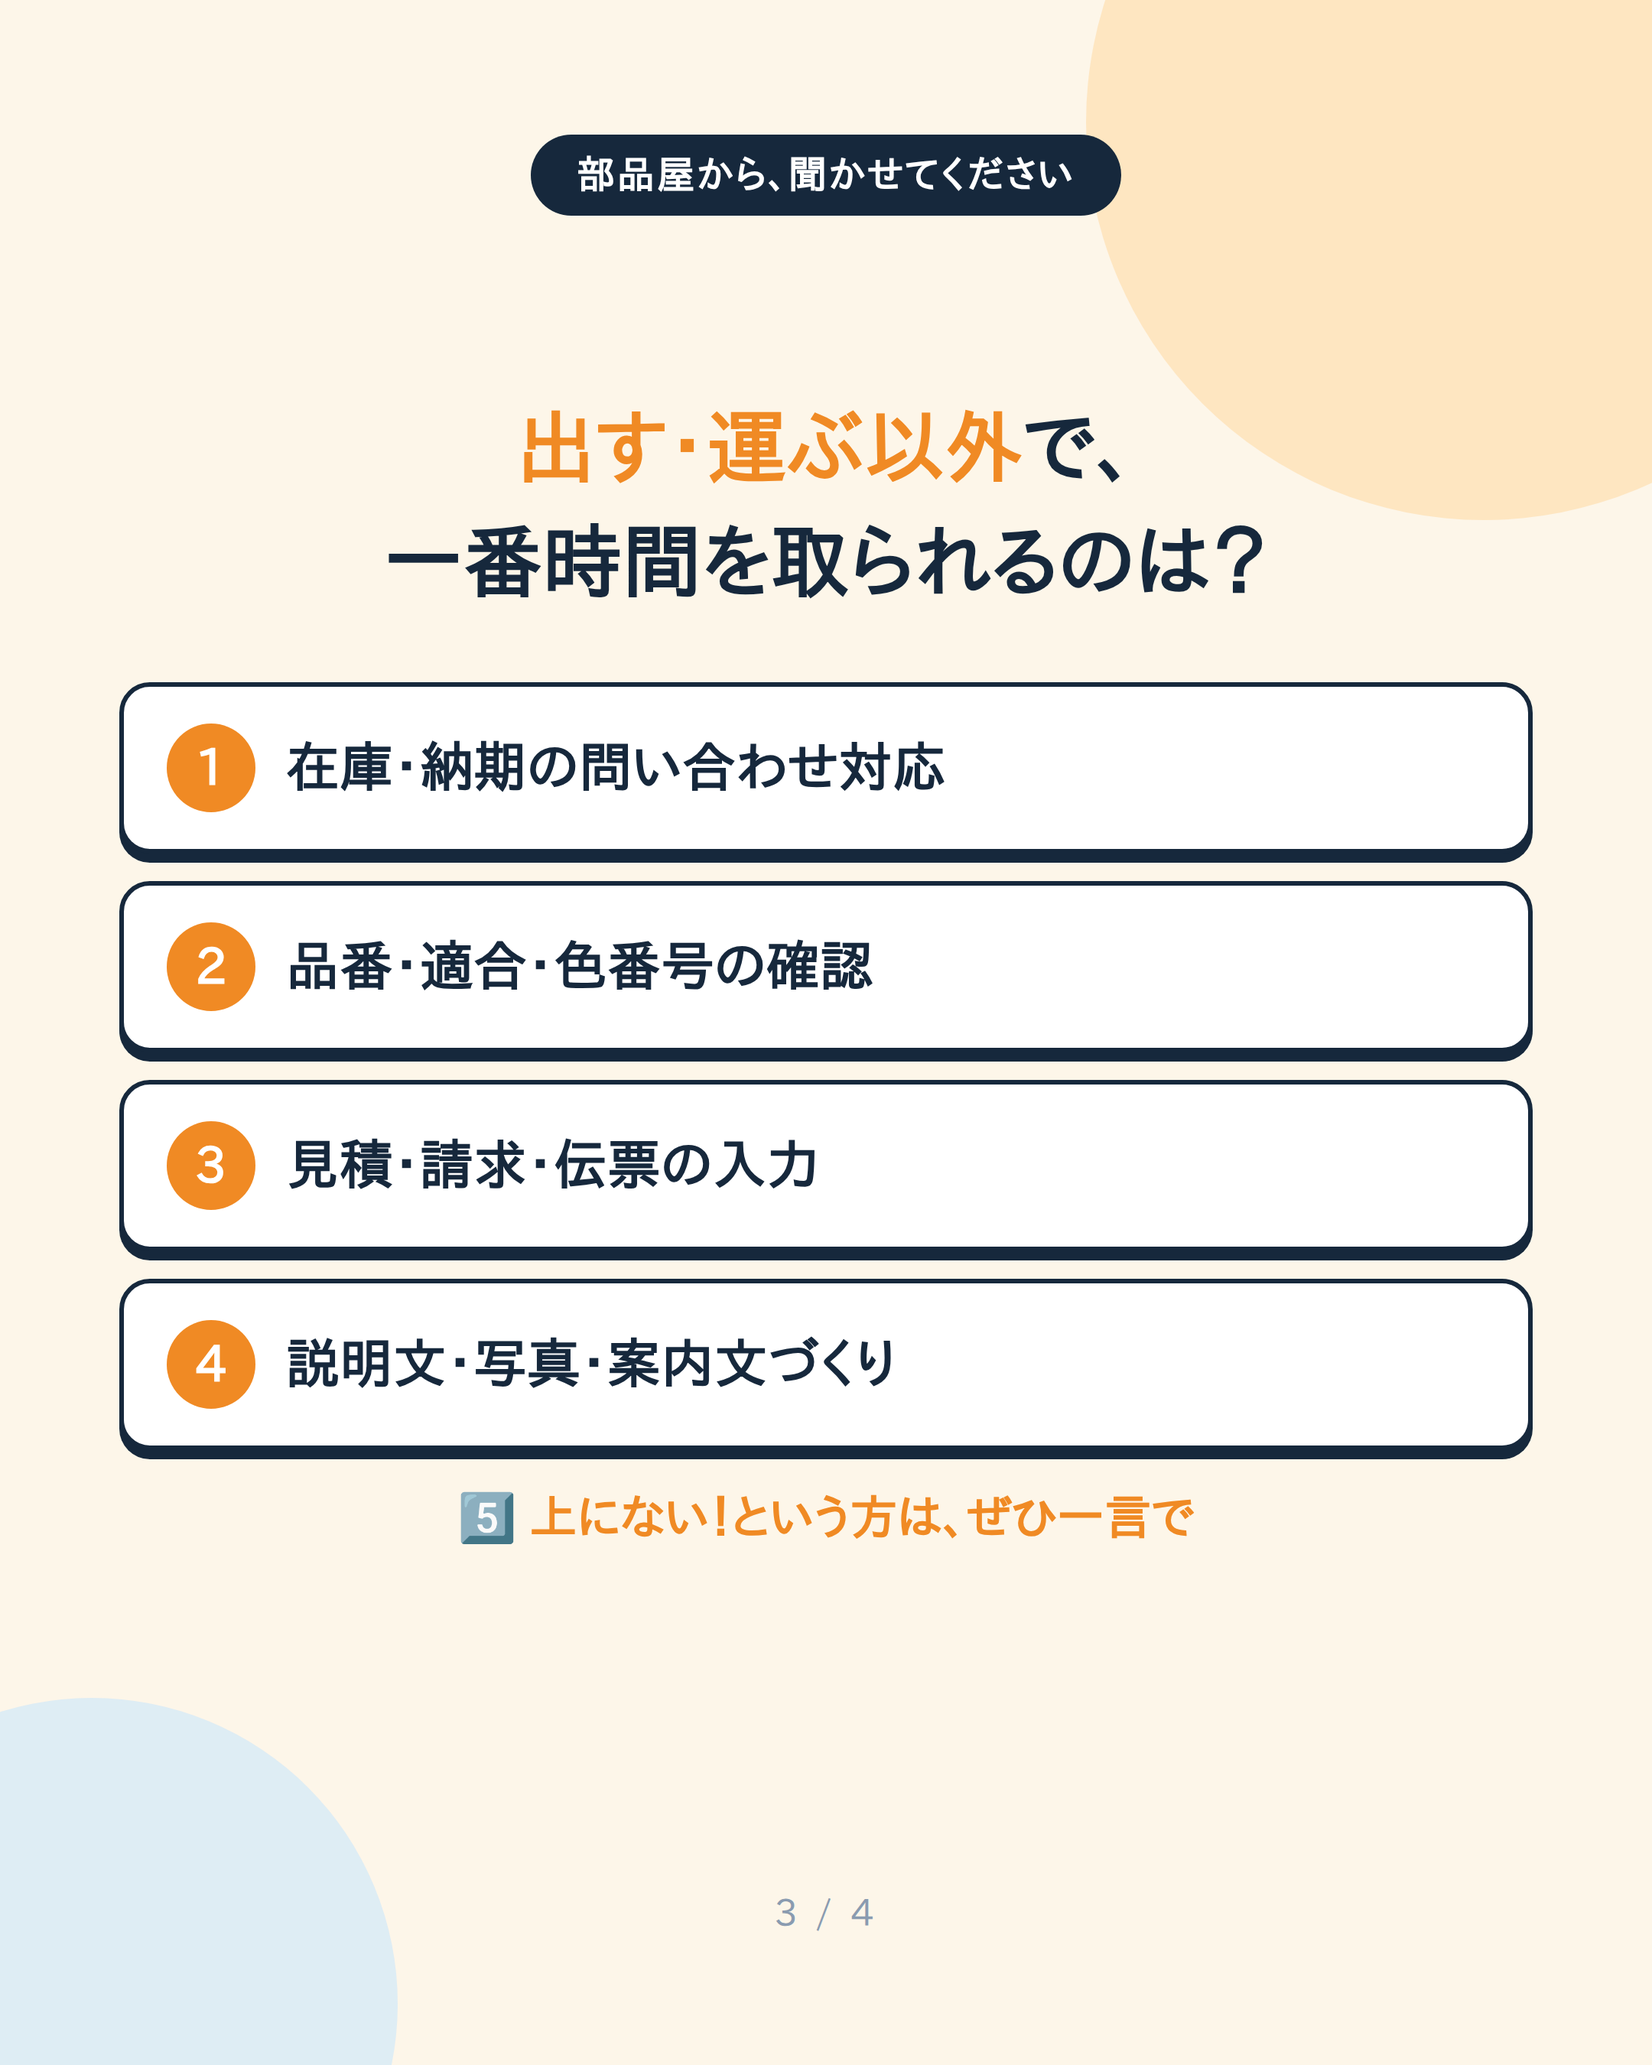
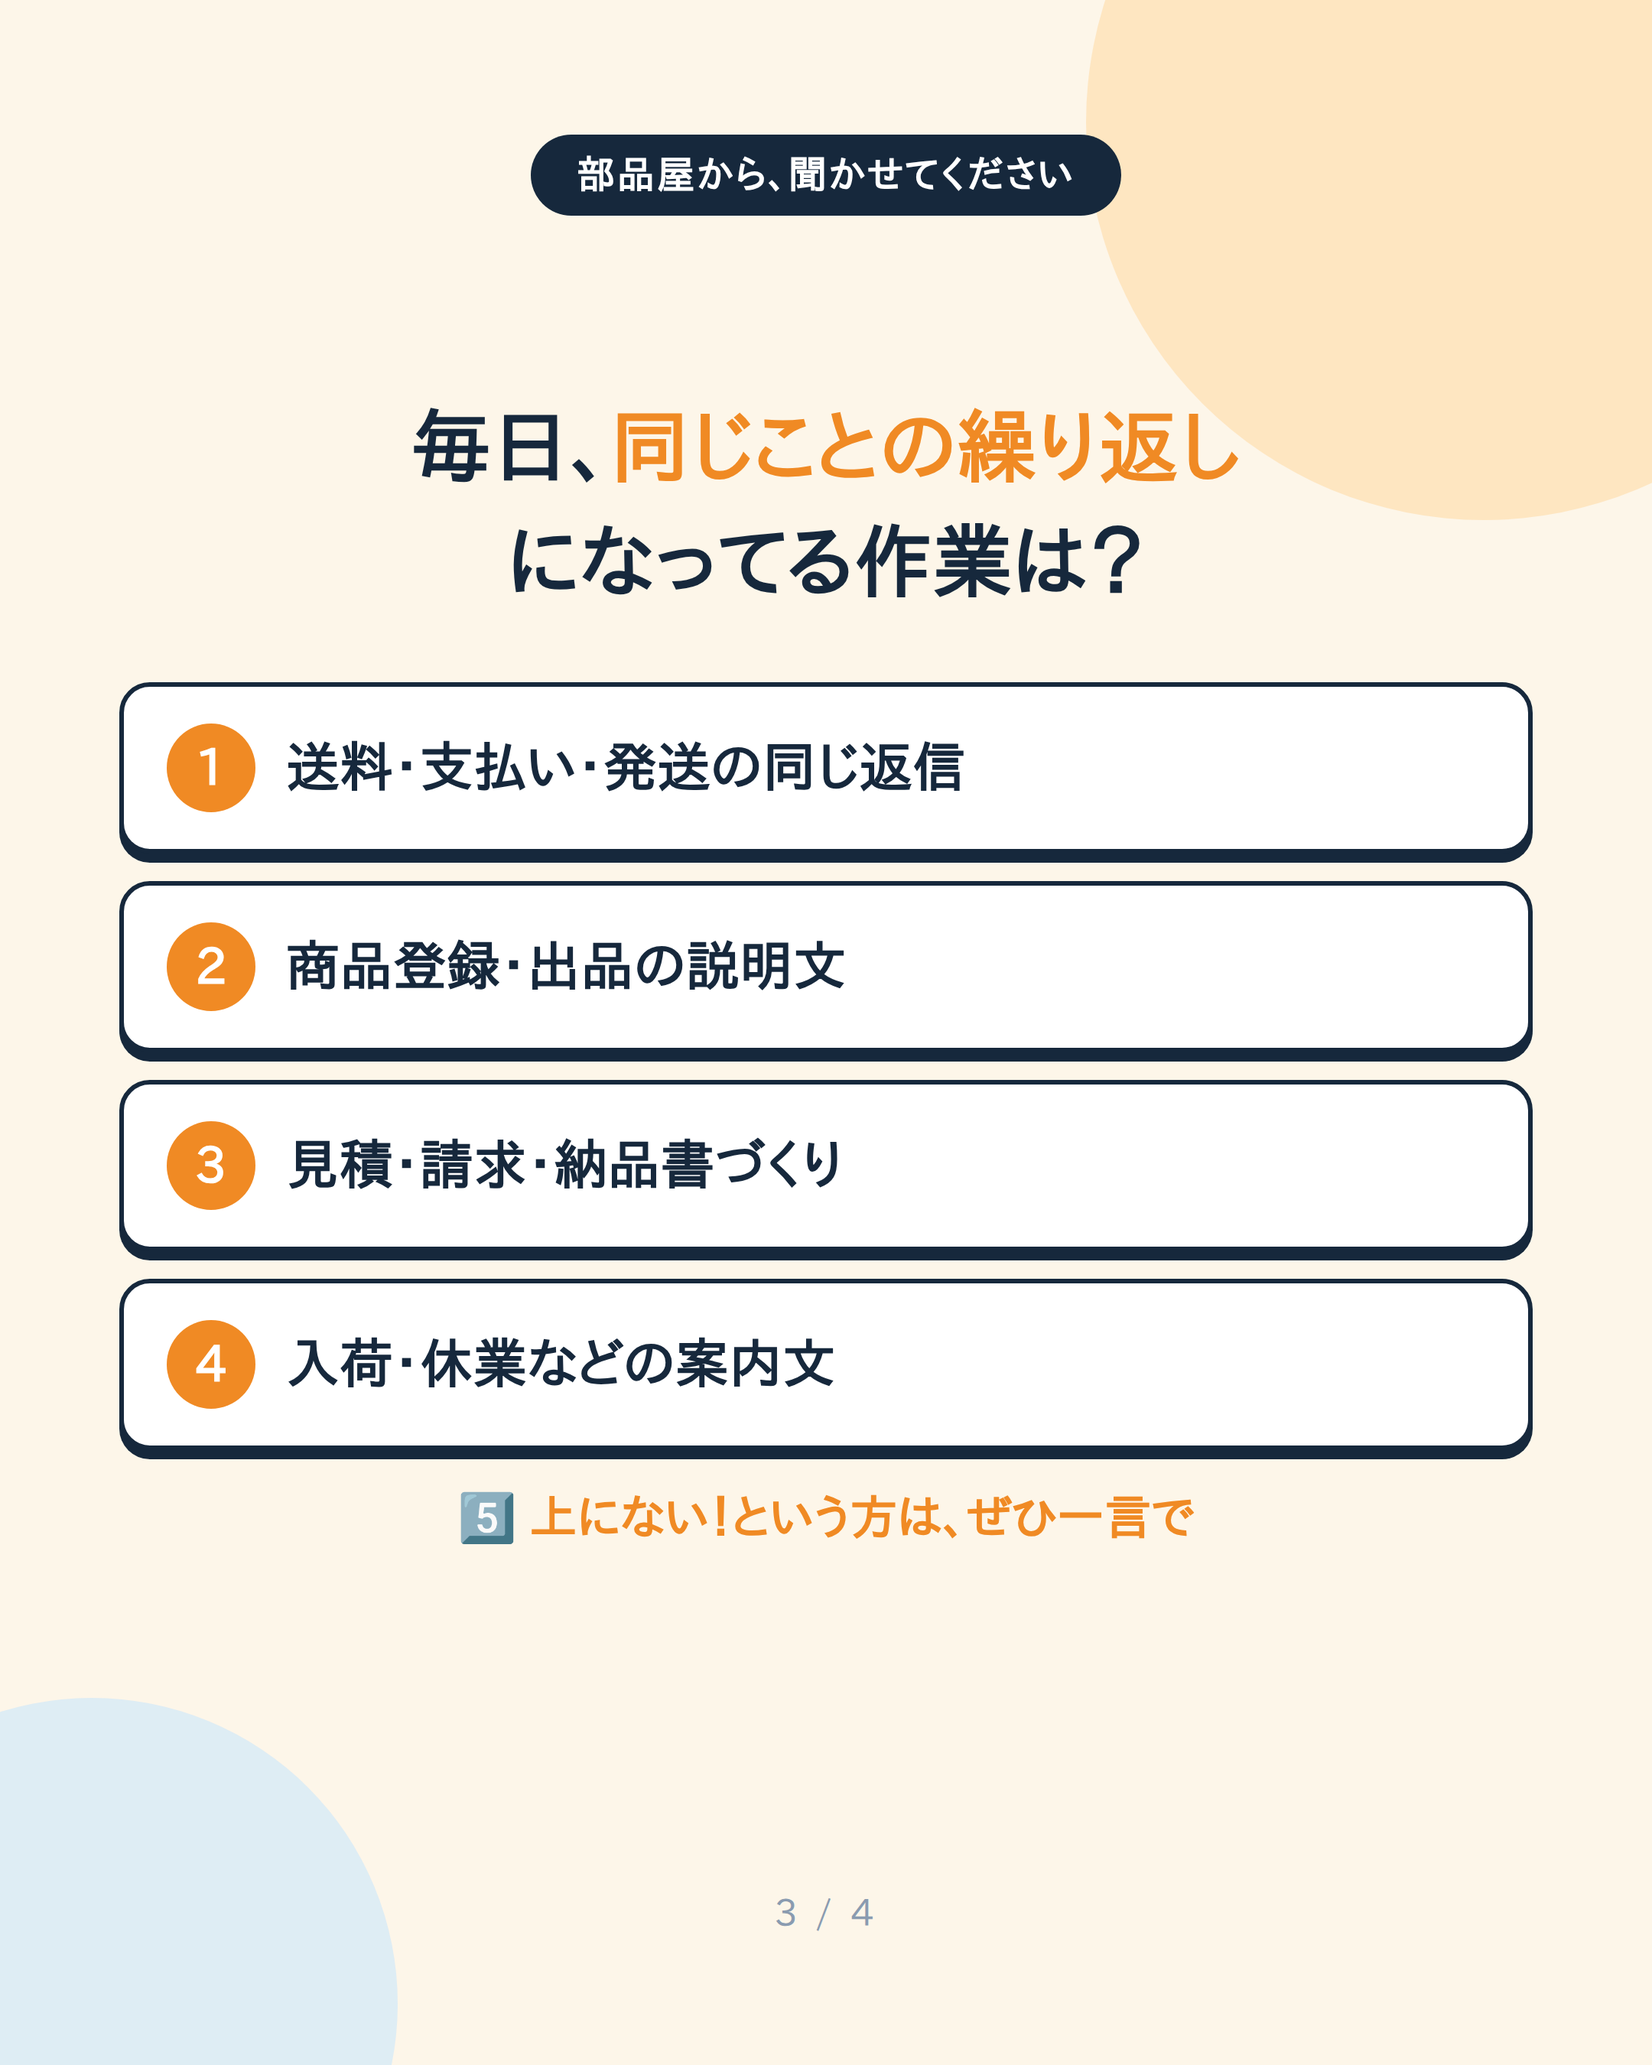
アンケート第2弾の軸を「繰り返し作業」に変更（本業を無駄扱いしていた）
オーナー指摘：「在庫あるって聞かれたのを調べて探すのが、中古/新品の
部品屋さんの仕事。ここは経験があるからAIが入ってこれない部分」

初版は在庫・納期の問い合わせ対応、品番・適合の確認を「時間を取られる
作業」として並べていた＝本業そのものを無駄扱いしていた。不採用になった
post-01（見積の説明文）と同じ構造の誤り。

線引きを明確にした：
- AIが入れない＝探す・見極める・適合を判断する（経験）
- AIが入れる＝毎回ほぼ同じ形で書く／打つ（繰り返し）

- 2枚目：先に「探して見極めるのは経験の仕事／代わりがききません」と認める
- 3枚目：軸を「毎日、同じことの繰り返しになってる作業は？」に変更
  ①送料・支払い・発送の同じ返信 ②商品登録・出品の説明文
  ③見積・請求・納品書づくり ④入荷・休業などの案内文
- 4枚目：「探す・見極めるは人の仕事」と明記
- README のキャプションと選択肢表を差し替え
- PROJECT-STATUS に線引きを記録（部品商向けテンプレで在庫検索・適合判断を
  約束しないという商品側の制約にも効く）

Claude-Session: https://claude.ai/code/session_01BDNBbdRytoB6q3uoz92Hn1

diff --git a/ai-office-kit/assets/lucent-ai-series/survey-feed-parts.html b/ai-office-kit/assets/lucent-ai-series/survey-feed-parts.html
@@ -66,31 +66,34 @@
   <div class="page">スワイプ →</div>
 </div></div>
 
-<!-- 2 立場（タツさん本人の実感＝中古部品商だから事実） -->
+<!-- 2 立場（★重要：探す・見極めるのは経験の仕事＝AIが入れない領域だと先に認める。
+     ここを「手が止まる」と書くと本業を軽く見ていることになる＝業界を分かっていない文章になる。
+     オーナー指摘・2026-08-17。「同じことの繰り返し」だけがAIの領域） -->
 <div class="slide"><div class="in">
   <div class="series">部品屋から、聞かせてください</div>
   <div class="center">
-    <div class="emoji">😮💨</div>
-    <h2>うちも、<span class="o">出す・運ぶ以外</span>で<br>手が止まります</h2>
+    <div class="emoji">🔍</div>
+    <h2>探して見極めるのは<br><span class="o">経験の仕事</span></h2>
     <div class="lead">
-      「これ在庫ある？」の対応。<br>
-      調べもの、伝票、写真、文章。<br><br>
-      <b>気づいたら夕方、みたいな日があります。</b>
+      「これある？」に答えられるのは、<br>
+      年式も形も頭に入ってるから。<br>
+      <b>ここは代わりがききません。</b><br><br>
+      <b>でも そのあと書く文章、<br>毎回ほぼ同じじゃないですか？</b>
     </div>
   </div>
   <div class="page">2 / 4</div>
 </div></div>
 
-<!-- 3 質問 -->
+<!-- 3 質問（軸＝「毎日同じことの繰り返し」。ここだけがAIで減らせる領域） -->
 <div class="slide"><div class="in">
   <div class="series">部品屋から、聞かせてください</div>
   <div class="center">
-    <h2><span class="o">出す・運ぶ以外</span>で、<br>一番時間を取られるのは？</h2>
+    <h2>毎日、<span class="o">同じことの繰り返し</span><br>になってる作業は？</h2>
     <ul>
-      <li><span class="n">1</span>在庫・納期の問い合わせ対応</li>
-      <li><span class="n">2</span>品番・適合・色番号の確認</li>
-      <li><span class="n">3</span>見積・請求・伝票の入力</li>
-      <li><span class="n">4</span>説明文・写真・案内文づくり</li>
+      <li><span class="n">1</span>送料・支払い・発送の同じ返信</li>
+      <li><span class="n">2</span>商品登録・出品の説明文</li>
+      <li><span class="n">3</span>見積・請求・納品書づくり</li>
+      <li><span class="n">4</span>入荷・休業などの案内文</li>
     </ul>
     <div class="free">5⃣ 上にない！という方は、ぜひ一言で</div>
   </div>
@@ -105,8 +108,8 @@
     <h2>番号ひとつで<br><span class="o">大丈夫です</span></h2>
     <div class="why">
       いま、うちの事務作業をAIにやらせる試しをしています。<br><br>
-      扱っているモノは違っても、<b>止まる場所は同じかもしれない</b>と思っていて、
-      そこを確かめたいです。<br><br>
+      <b>探す・見極めるところは人の仕事</b>だと思っています。
+      でも<b>「毎回同じ」なところ</b>は、まとめて減らせるかもしれない。<br><br>
       <b>売り込みではありません。</b>まず、実際のところを知りたいだけです。
     </div>
     <div class="cta"><span class="o">コメント</span>か<span class="o">DM</span>で<br>教えてもらえたら助かります。</div>

diff --git a/ai-office-kit/assets/lucent-ai-series/README.md b/ai-office-kit/assets/lucent-ai-series/README.md
@@ -109,18 +109,41 @@
 タツさん自身は**中古部品商なので実感がある**が、**新品部品商・材料屋の当事者ではない**。
 → **推測で困りごとを書かない。**（`post-01.html` が不採用になったのと同じ轍を踏まない）
 
+### 🚨【最重要】AIが入れる線・入れない線（2026-08-17・オーナー指摘で修正）
+
+初版は「在庫・納期の問い合わせ対応」「品番・適合の確認」を**時間を取られる作業**として並べていた。
+**これは間違い。** オーナー指摘：
+
+> **「在庫あるって聞かれたのを調べて探すのが、中古/新品の部品屋さんの仕事なんだよね。
+> ここは経験があるからAIが入ってこれない部分」**
+
+つまり**本業そのものを「無駄な時間」扱いしていた**＝業界を分かっていない文章になる。
+
+| | AIが入れない（人の仕事） | AIが入れる（AIの仕事） |
+|---|---|---|
+| 中身 | **探す・見極める・適合を判断する** | **毎回ほぼ同じ形で書く／打つ** |
+| 根拠 | 年式・形状・相場が頭に入っている＝**経験** | 型が決まっている＝**繰り返し** |
+
+→ **軸を「一番時間を取られるのは？」から「毎日、同じことの繰り返しになってる作業は？」に変更。**
+オーナーの言葉そのまま＝**「毎日同じ作業をしてれば、AIなら全部自動化にできる」**。
+
+**2枚目で先に「探して見極めるのは経験の仕事／ここは代わりがききません」と認める。**
+これが**「分かってる人が書いてる」に見せる一番の要素**。否定から入らない。
+
 ### なぜ3業種を1本にまとめたか
 リーチは**503人の13.5%＝実質68人前後**で、そのうち部品商は**"一部"**。
 **業種ごとに分けると1回あたり数人**になり、アンケートとして成立しない。
 → **選択肢の言葉を広く取って**1本に統合し、**⑤の自由記述で業種差を拾う**。
 
-| 選択肢 | 中古部品 | 新品部品 | 材料 |
+| 選択肢（＝繰り返し作業） | 中古部品 | 新品部品 | 材料 |
 |---|---|---|---|
-| ① 在庫・納期の問い合わせ対応 | ✓ | ✓ | ✓ |
-| ② **品番・適合・色番号**の確認 | 適合 | 品番 | **色番号（調色）** |
-| ③ 見積・請求・伝票の入力 | ✓ | ✓ | ✓ |
-| ④ 説明文・写真・案内文づくり | ◎ | ✓ | ✓ |
+| ① 送料・支払い・発送の同じ返信 | ✓ | ✓ | ✓ |
+| ② 商品登録・出品の説明文 | ◎ | ✓ | △ |
+| ③ 見積・請求・納品書づくり | ✓ | ✓ | ✓ |
+| ④ 入荷・休業などの案内文 | ✓ | ✓ | ✓ |
 | ⑤ 上にない！という方は一言で | **選択肢が外れている前提で必ず入れる** | | |
+
+> ⚠**在庫を探す・適合を調べるは選択肢に入れない。** そこは商品にもしない（できない）。
 
 ### 素材
 | ファイル | 用途 | サイズ |
@@ -141,21 +164,23 @@
 ```
 中古部品・新品部品・材料を扱っている方に、聞きたいことがあります。
 
-うちも、部品を出す・運ぶ以外のところで手が止まります。
-「これ在庫ある？」の対応、調べもの、伝票、写真、文章。
-気づいたら夕方、みたいな日があります。
+「これある？」に答えられるのは、年式も形も頭に入ってるからで、
+探して見極めるところは経験の仕事だと思っています。ここは代わりがきかない。
+
+でも、そのあとに書く文章って、毎回ほぼ同じじゃないですか。
+うちはそこが地味に積み上がってます。
 
 みなさんはどうですか？
 
-出す・運ぶ以外で、一番時間を取られるのは？
-① 在庫・納期の問い合わせ対応
-② 品番・適合・色番号の確認
-③ 見積・請求・伝票の入力
-④ 説明文・写真・案内文づくり
+毎日、同じことの繰り返しになってる作業は？
+① 送料・支払い・発送の同じ返信
+② 商品登録・出品の説明文
+③ 見積・請求・納品書づくり
+④ 入荷・休業などの案内文
 ⑤ 上にない！という方は、ぜひ一言で
 
 なぜ聞くかというと、いま うちの事務作業をAIにやらせる試しをしていて、
-扱っているモノは違っても、止まる場所は同じかもしれないと思っているからです。
+「毎回同じ」なところだけまとめて減らせないか試しているからです。
 
 売り込みではありません。まず実際のところを知りたいだけです。
 番号だけでも、コメントかDMで教えてもらえたら助かります。

diff --git a/ai-office-kit/docs/PROJECT-STATUS.md b/ai-office-kit/docs/PROJECT-STATUS.md
@@ -130,7 +130,23 @@
    - ✅**代わりにアンケート方式に変更（これが現行）**。回収した言葉は**①次の投稿ネタ ②業種テンプレの改良 ③営業トーク**に効く。
      - **第1弾＝鈑金屋・整備士向け**：`q-feed-1〜4.png`（カルーセル）＋`q-story-1〜4.png`（投票3本＋質問1本）
      - **第2弾＝流通側**（中古部品商・新品部品商・材料屋を**1本に統合**）：`q2-feed-1〜4.png`
-       ⚠分けると母数が数人になるため統合。**選択肢を広く取り**（品番／適合／**色番号**を1行に内包）**⑤自由記述で業種差を拾う**。
+       ⚠分けると母数が数人になるため統合。**⑤自由記述で業種差を拾う**。
+   - 🚨🚨**【最重要】AIが入れる線・入れない線（2026-08-17・オーナー指摘で修正）**
+     第2弾の初版は「在庫・納期の問い合わせ対応」「品番・適合の確認」を**時間を取られる作業**として並べていた。
+     > オーナー指摘：**「在庫あるって聞かれたのを調べて探すのが、中古/新品の部品屋さんの仕事なんだよね。
+     > ここは経験があるからAIが入ってこれない部分」**
+     → **本業そのものを"無駄な時間"扱いしていた。** これも「業界を分かっていない文章」になる。
+
+     | AIが入れない（人の仕事） | AIが入れる（AIの仕事） |
+     |---|---|
+     | **探す・見極める・適合を判断する**（年式/形状/相場が頭に入っている＝経験） | **毎回ほぼ同じ形で書く・打つ**（型が決まっている＝繰り返し） |
+
+     → **軸を「一番時間を取られるのは？」→「毎日、同じことの繰り返しになってる作業は？」に変更。**
+     オーナーの言葉＝**「毎日同じ作業をしてれば、AIなら全部自動化にできる」**。
+     **2枚目で先に「探して見極めるのは経験の仕事／ここは代わりがききません」と認める**のが要点。
+     ⚠**この線引きは商品側にも効く**：部品商向けテンプレを作るとき**在庫検索・適合判断を約束しない**。
+     ⚠**教訓（不採用post-01と同じ構造の2回目）**：**現場の技能を"非効率"と書くと一発で嫌われる。
+     効率化の対象は"技能"ではなく"繰り返し"。**
    - 🚨**配色を明るく作り直した**：初版は濃紺で、オーナー指摘＝**「暗すぎて答えたくない」**。**正しい。**
      アンケートは**答えてもらうのが目的**なので暗い＝重い＝設計矛盾。→ **クリーム地＋濃紺＋オレンジ**に統一。
      **「アンケート素材は明るい配色」は今後も守るルール**としてREADMEに明記。
